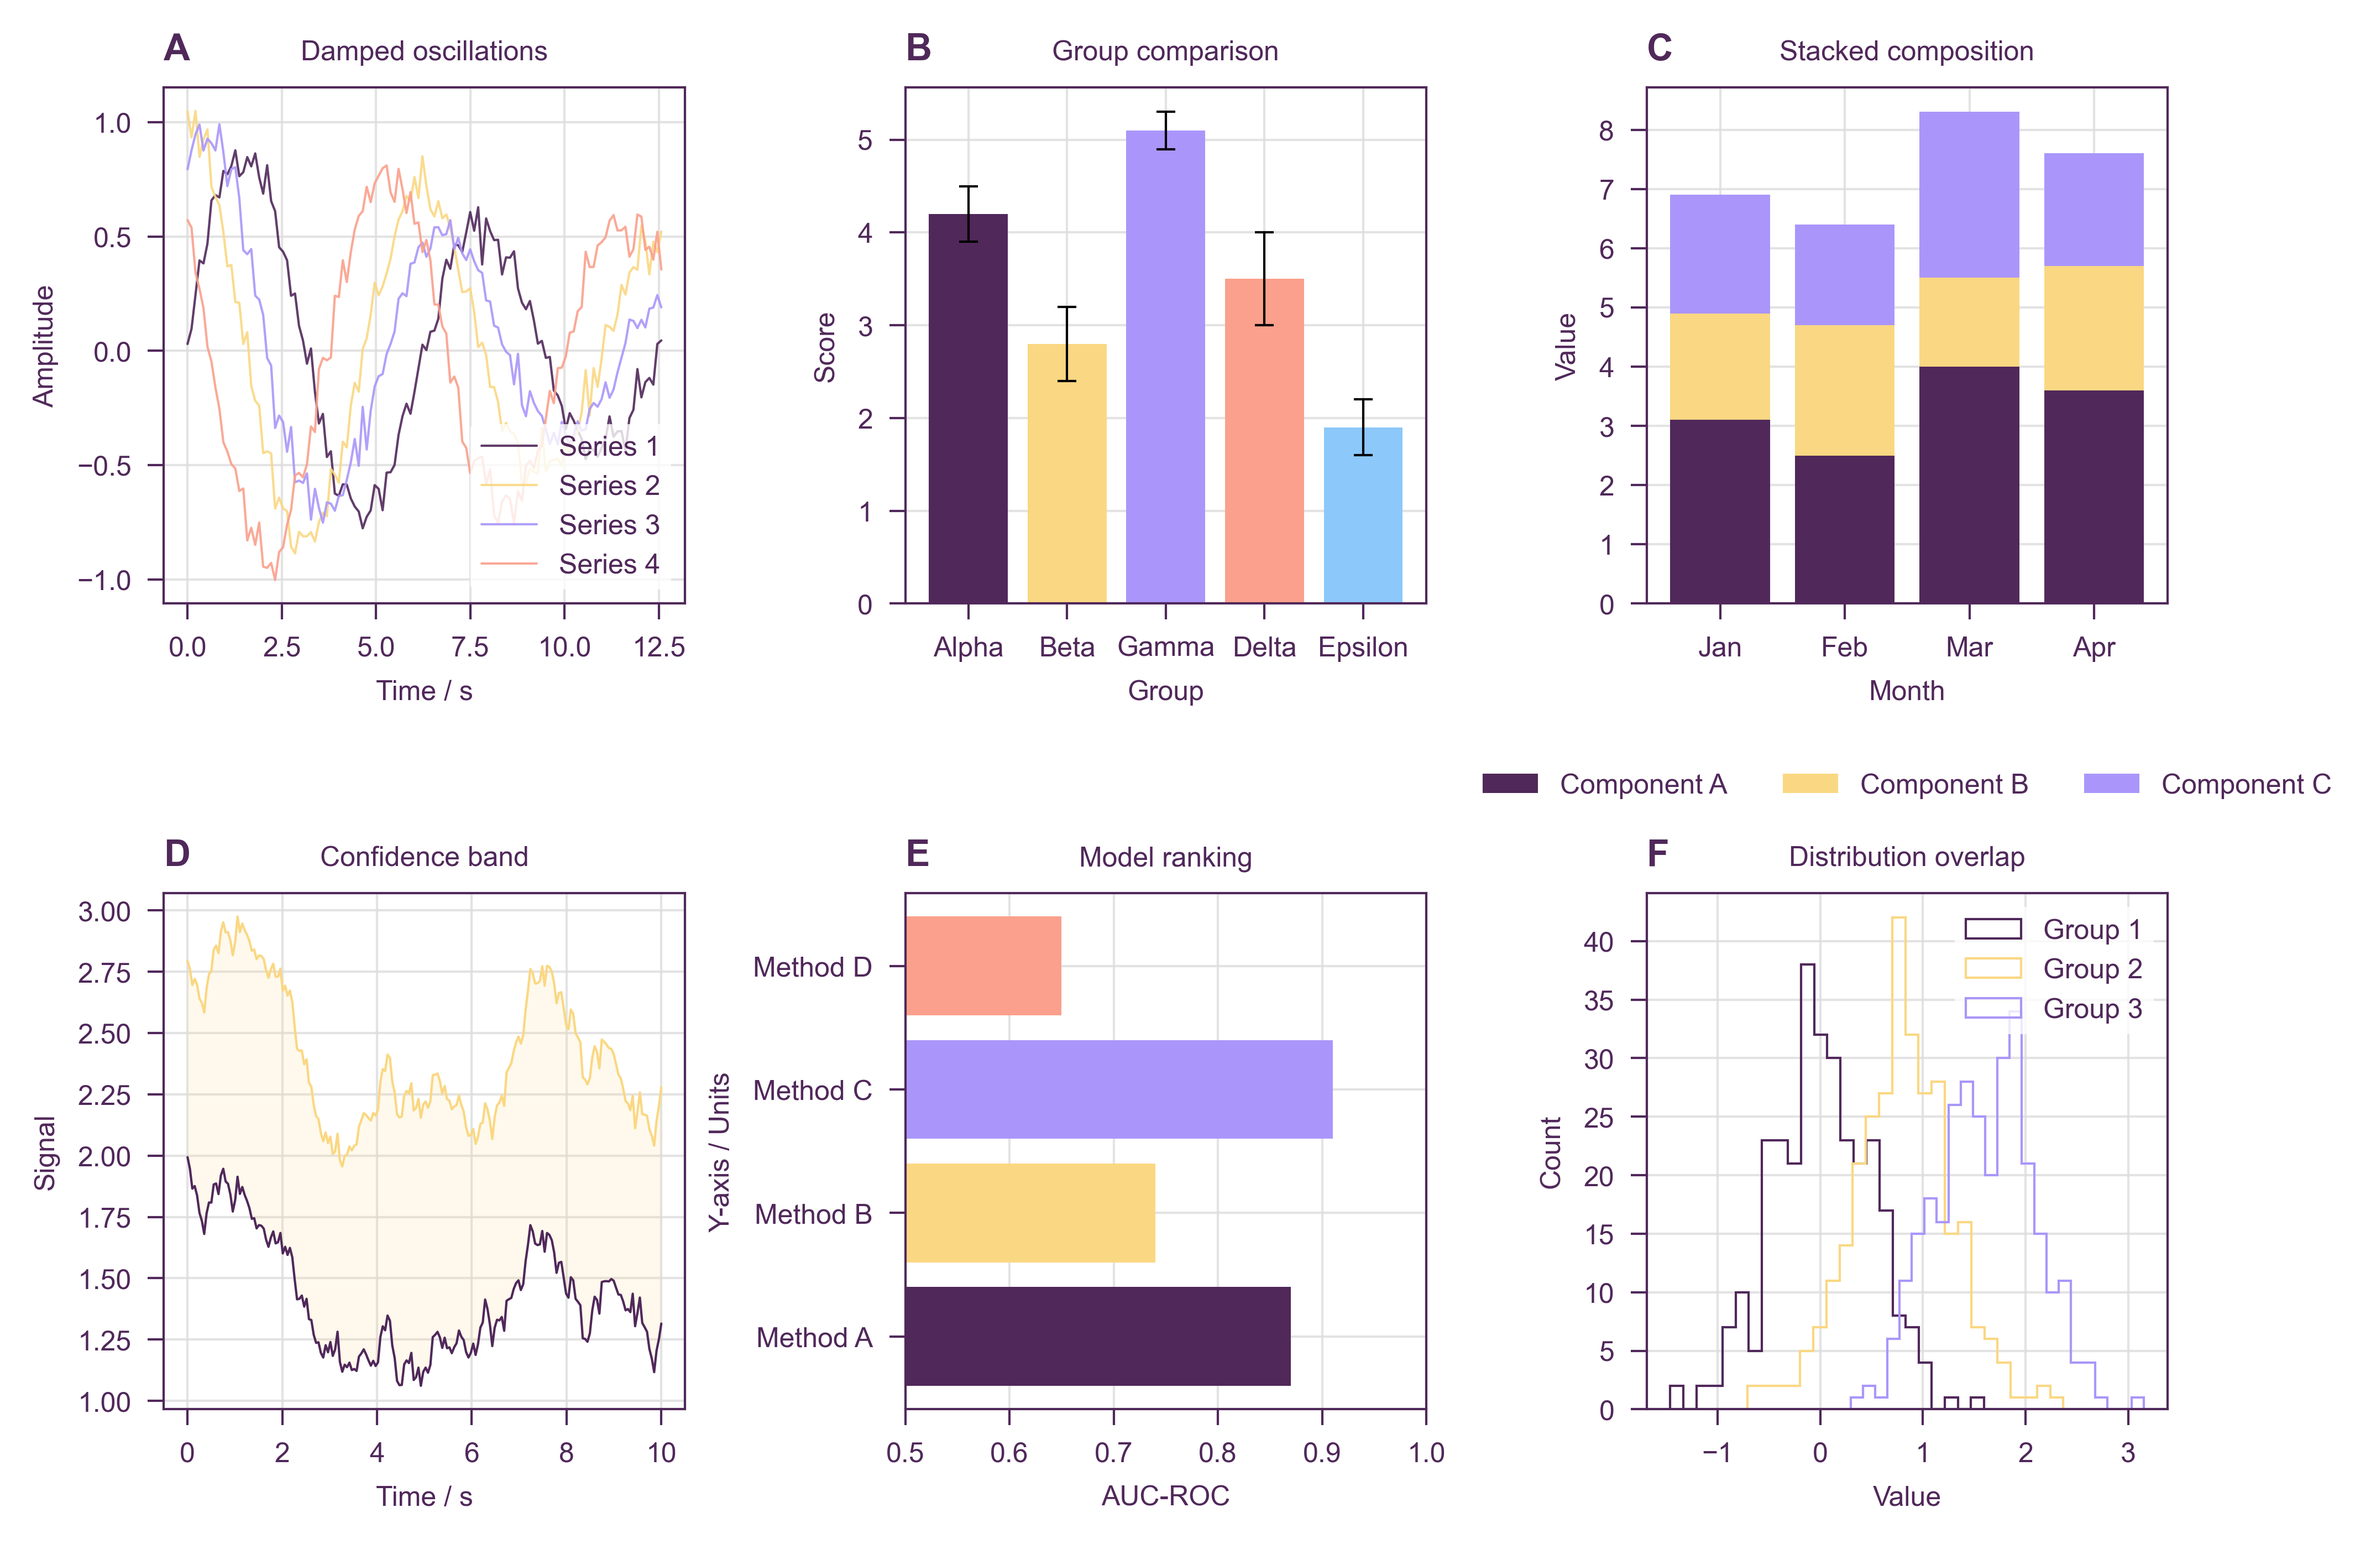
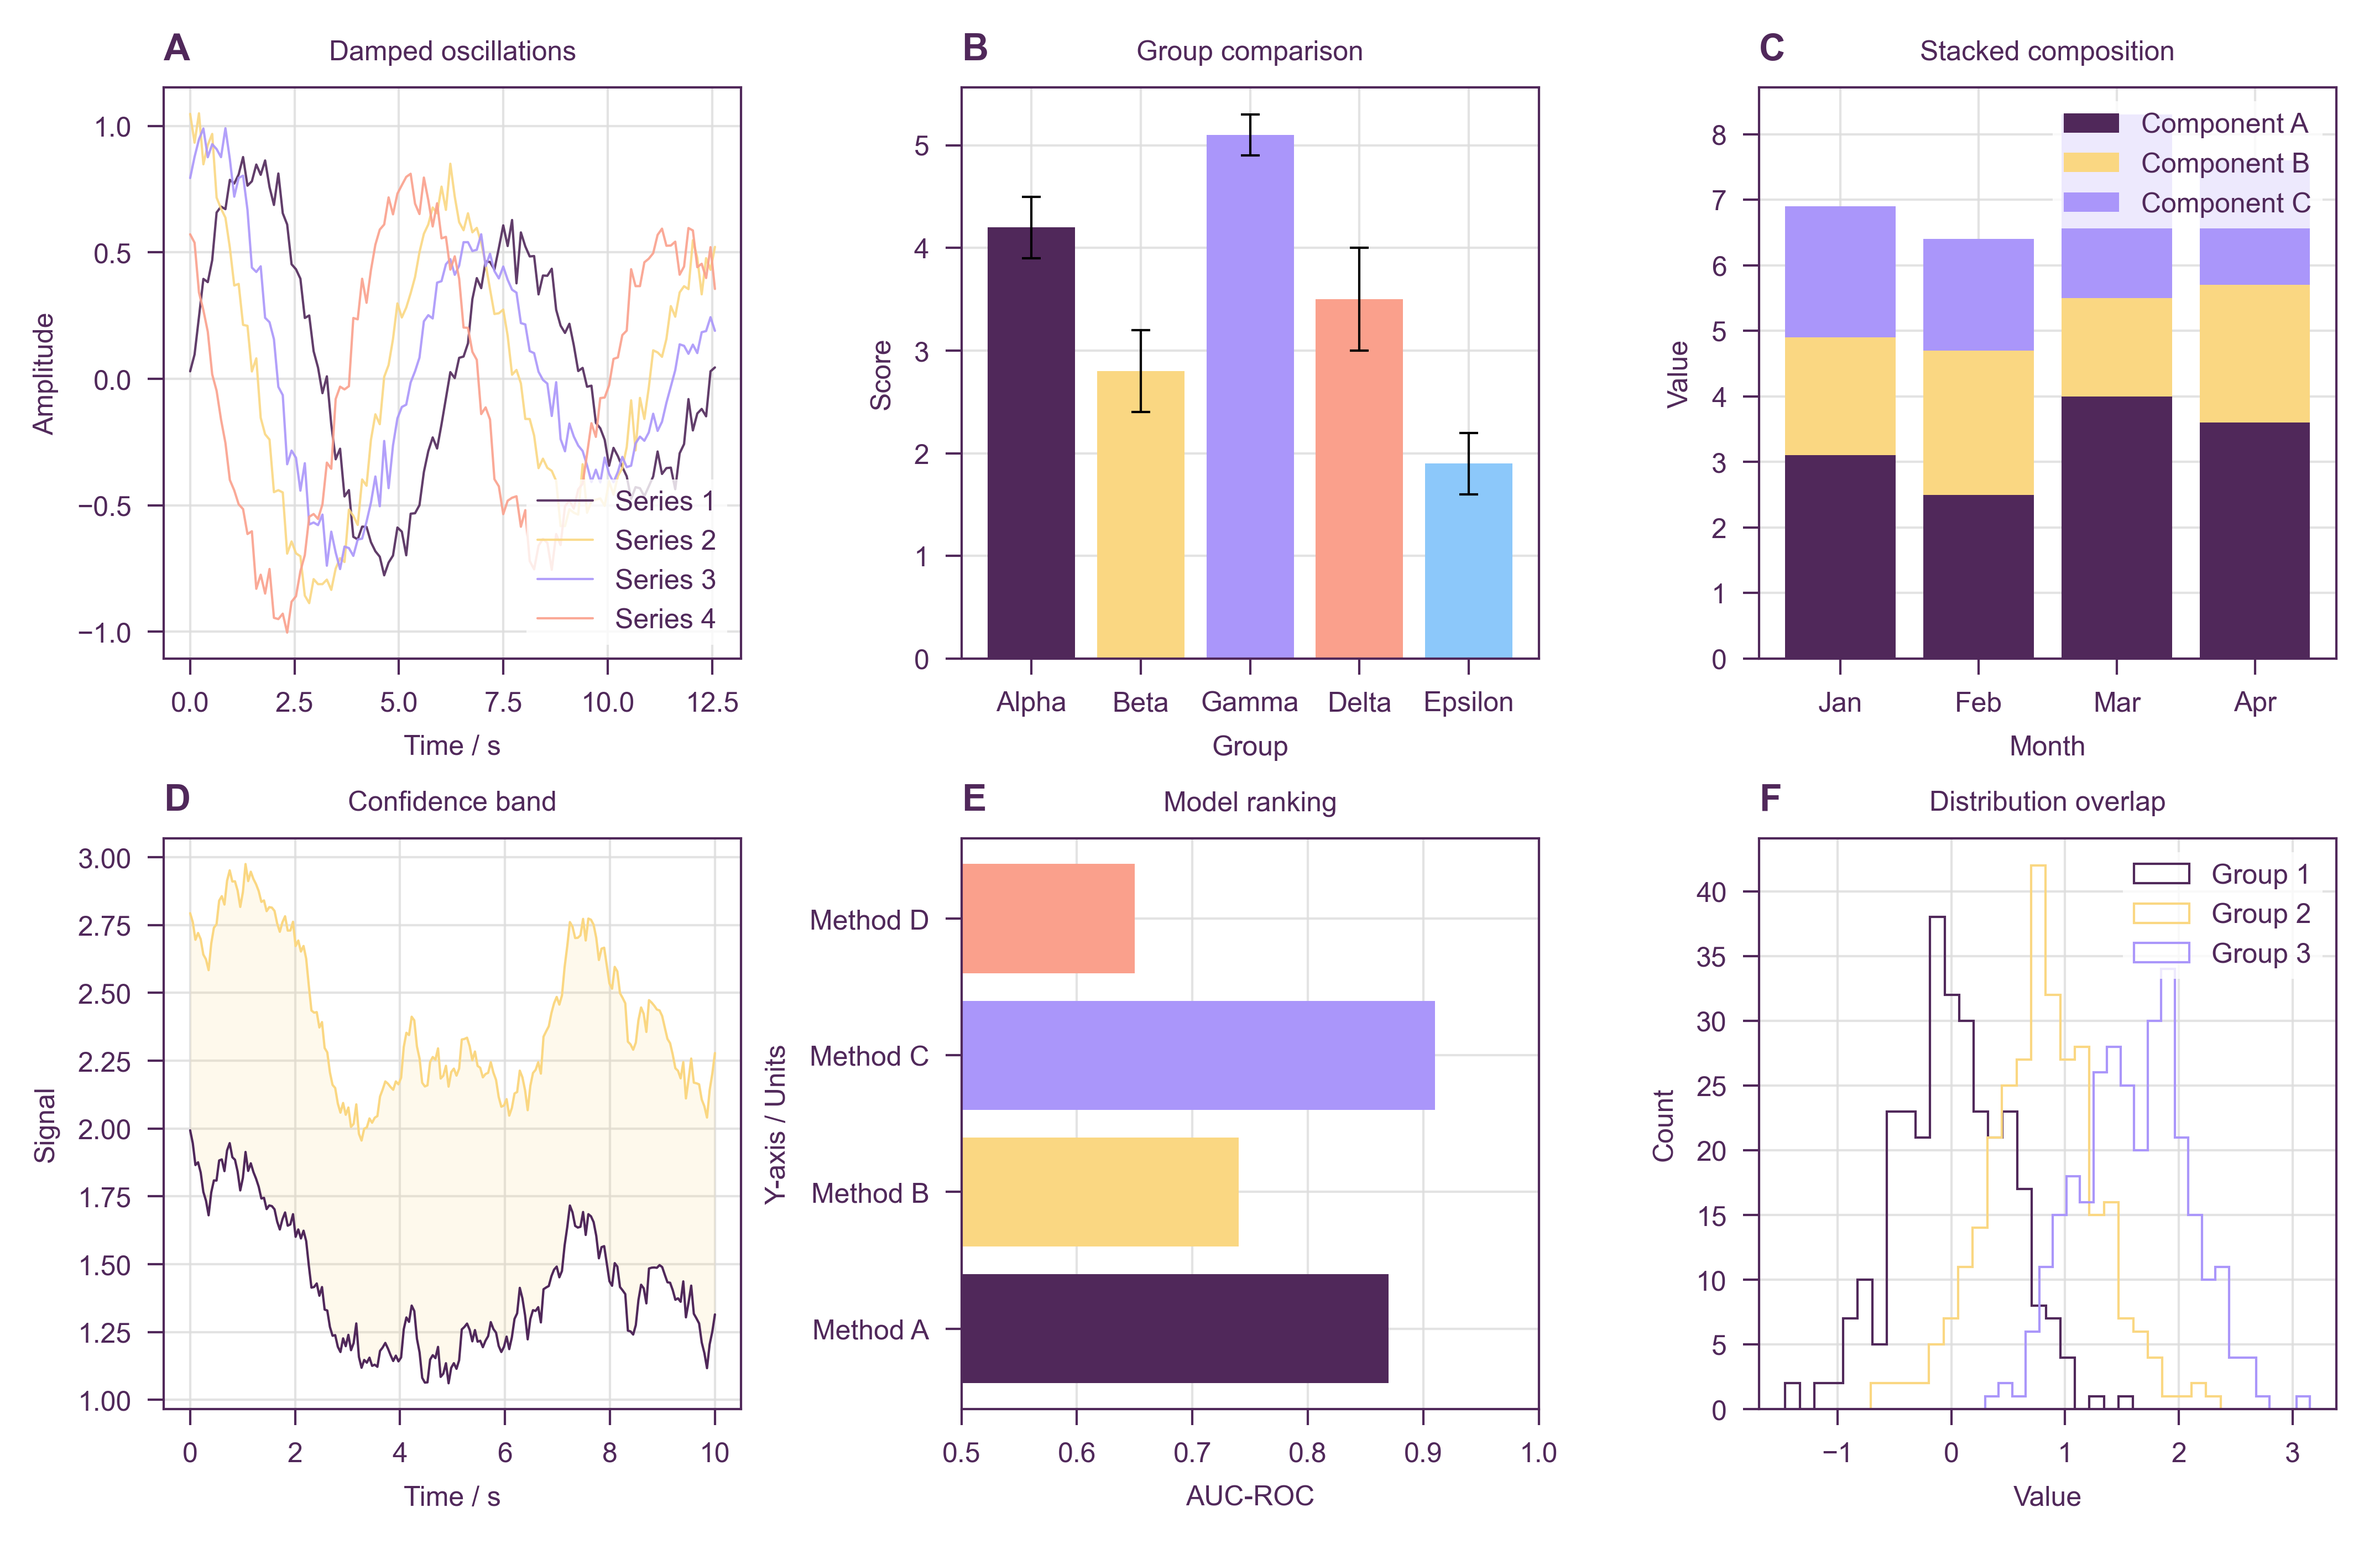
Move stacked bar legend inside plot; add Ersilia footer to README
- Panel C legend moved to upper right (inside axes)
- README footer: Ersilia logo, mission blurb, links to website/GitHub/Twitter

diff --git a/make_demo.py b/make_demo.py
@@ -79,7 +79,7 @@ def make_grid(style, outpath):
     ax.bar(stack_labels, stack_c, bottom=stack_a + stack_b, color=c3[2], label="Component C")
     ax.set_xlabel("Month")
     ax.set_ylabel("Value")
-    ax.legend(loc="upper center", bbox_to_anchor=(0.5, -0.28), ncol=3)
+    ax.legend(loc="upper right")
     stylia.label(ax, title="Stacked composition", abc="C")
 
     # ── panel D: area / filled lines ─────────────────────────────────────────

diff --git a/README.md b/README.md
@@ -249,6 +249,12 @@ Use `stylia.get_markersize()` to get the format-aware value at runtime (`"small"
 
 Stylia is designed for internal use across Ersilia projects and is shared openly in case it is useful to others. It is not a general-purpose plotting library — for that, see [Matplotlib](https://matplotlib.org/) or [seaborn](https://seaborn.pydata.org/).
 
+---
+
 ## About Us
 
-Learn about the [Ersilia Open Source Initiative](https://ersilia.io)!
+<a href="https://ersilia.io" target="_blank"><img src="https://raw.githubusercontent.com/ersilia-os/ersilia/master/assets/Ersilia_Plum.png" height="80" alt="Ersilia logo"/></a>
+
+Stylia is developed and maintained by the [Ersilia Open Source Initiative](https://ersilia.io), a non-profit organisation dedicated to providing open-source AI/ML tools for infectious disease research in the Global South.
+
+[Visit us](https://ersilia.io) · [GitHub](https://github.com/ersilia-os) · [Twitter](https://twitter.com/ersiliaio)
